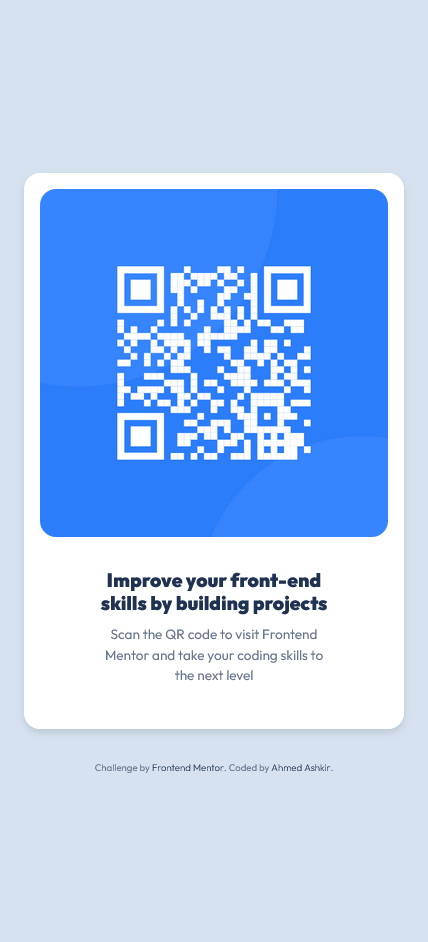
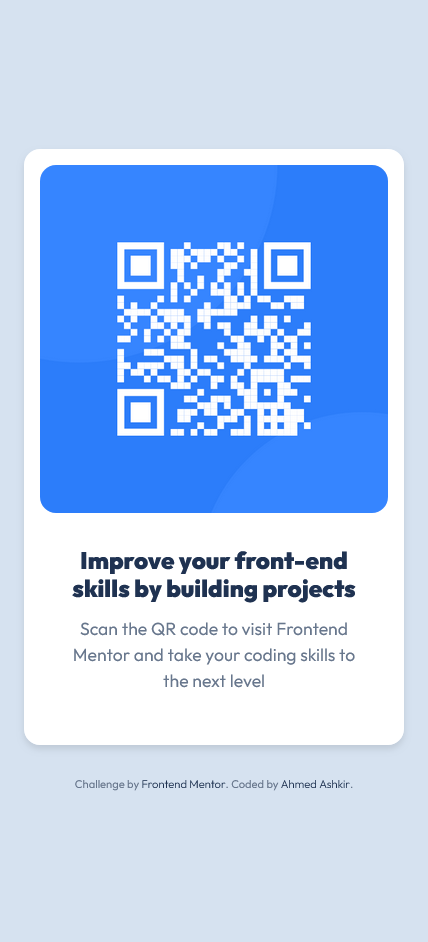
add media query to fix font size on desktop

diff --git a/style.css b/style.css
@@ -28,7 +28,7 @@ img {
 }
 
 .card-body {
-    max-width: 240px;
+    max-width: 100%;
     margin: 0 auto;
     padding: 0 2em;
     text-align: center;
@@ -69,4 +69,20 @@ p {
     color: hsl(218, 44%, 22%);
     text-decoration: none;
     font-weight: 300;
+}
+
+@media screen and (min-width: 376px) {
+    
+    h1 {
+        font-size: 1.5rem;
+    }
+    
+    p {
+        font-size: 1.1rem;
+    }
+    
+    .attribution {
+        font-size: 0.7rem;
+    }
+    
 }
